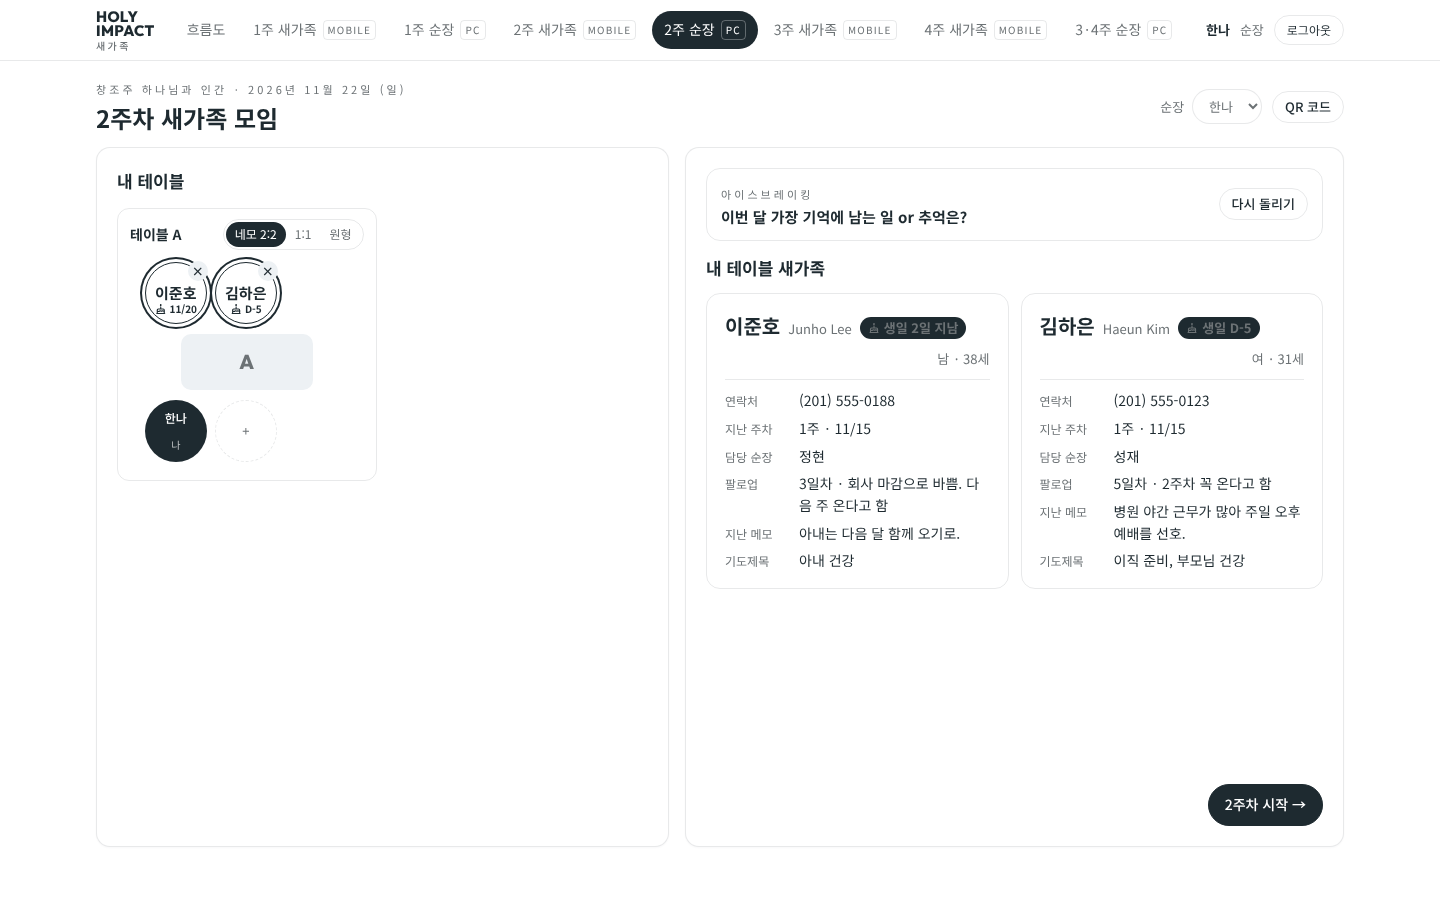
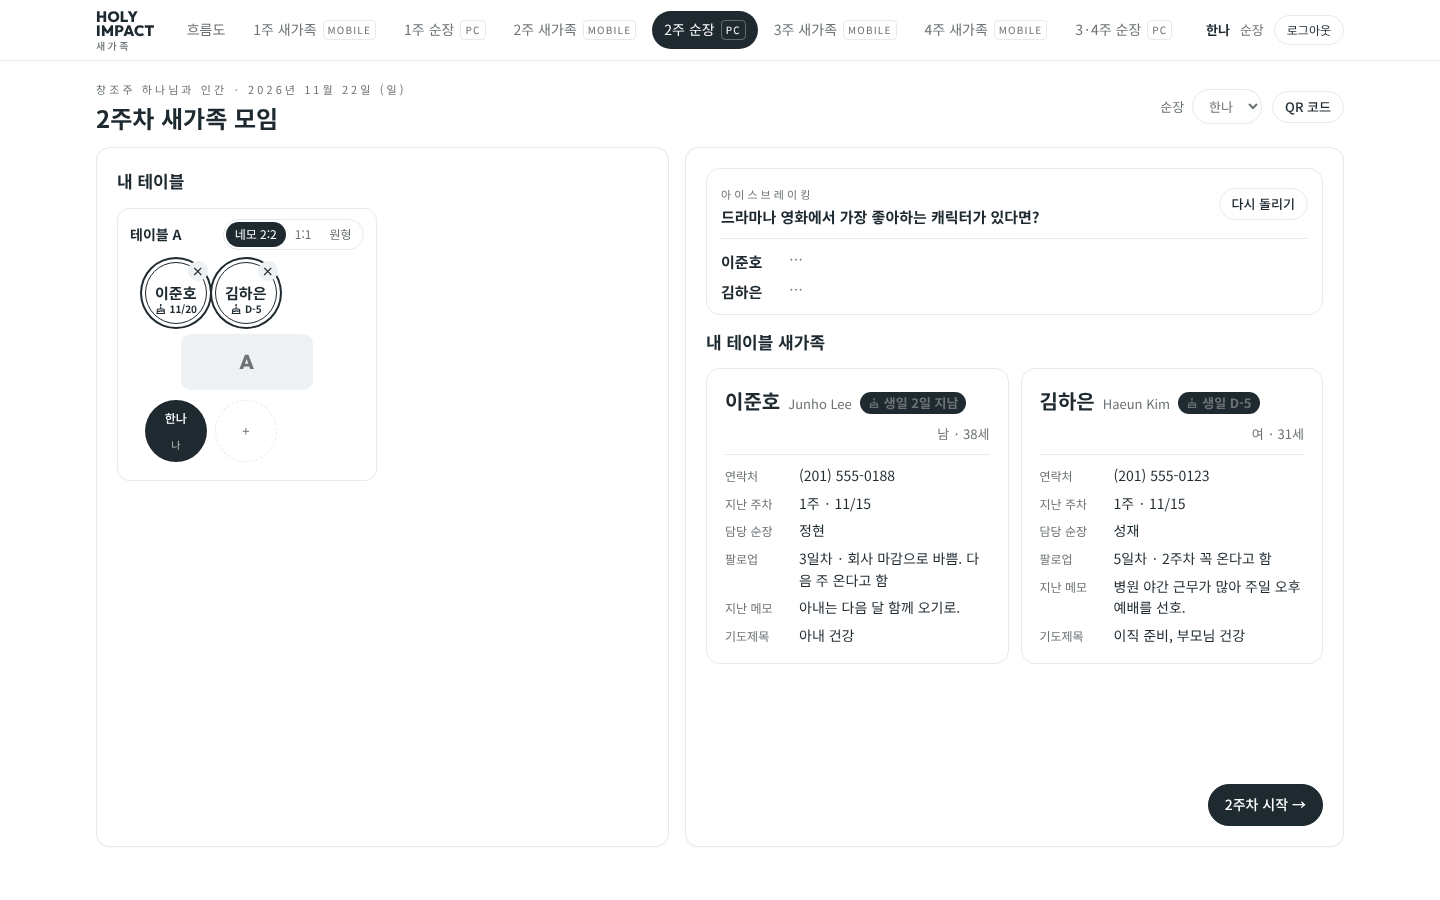
Leader: icebreaker answers listed under the question (name + answer), not in person cards
Claude-Session: https://claude.ai/code/session_01HiA1GonWmcVJgnFShP9VMN

diff --git a/demo/index.html b/demo/index.html
@@ -337,7 +337,7 @@ input[data-act="funote"]:focus,input[data-act="bdayNote"]:focus{outline:none;bor
 #vtip{position:fixed;z-index:80;max-width:380px;background:var(--ink);color:var(--paper);font-size:14px;line-height:1.65;padding:12px 14px;border-radius:12px;box-shadow:0 10px 30px rgba(0,0,0,.18);pointer-events:none}
 #vtip small{display:block;font-size:11px;letter-spacing:.12em;opacity:.65;margin-bottom:4px}
 .ice{margin-top:22px;text-align:left;border-top:1px solid var(--line);padding-top:16px}.ice .iq{font-size:17px;font-weight:600;line-height:1.5;margin:4px 0 10px}.ice textarea{width:100%;border:0;border-bottom:2px solid var(--line);border-radius:0;padding:6px 0;font:inherit;font-size:17px;resize:none;margin-bottom:12px;background:transparent;min-height:56px}.ice textarea:focus{outline:none;border-color:var(--ink)}.ice .btn{width:100%;justify-content:center}.ice .ia{font-size:16px;margin:0 0 4px;white-space:pre-wrap}
-.icebox{display:flex;align-items:center;gap:12px;justify-content:space-between;border:1px solid var(--line);border-radius:14px;padding:12px 14px;margin-bottom:14px}.icebox b{display:block;font-size:15px;line-height:1.45;margin-top:2px}.icebox .btn{flex:none}
+.icebox{display:block;border:1px solid var(--line);border-radius:14px;padding:12px 14px;margin-bottom:14px}.icebox b{display:block;font-size:15px;line-height:1.45;margin-top:2px}.icebox .btn{flex:none}
 .card .blocks.vstack{display:flex;flex-direction:column;gap:14px}
 .card .blocks.vstack h4{color:var(--ink);font-weight:600;font-size:18px;line-height:1.5;justify-content:space-between;align-items:flex-start;margin:0 0 6px}
 .card .blocks.vstack h4 .sub{margin-top:2px}
@@ -385,6 +385,8 @@ input[data-act="funote"]:focus,input[data-act="bdayNote"]:focus{outline:none;bor
 /* 진행표는 맨 아래 */
 .step .live .dots{position:absolute;left:28px;right:28px;bottom:calc(env(safe-area-inset-bottom,0px) + 40px);justify-content:center}
 .phmini{position:relative}.phmini .live .dots{position:absolute;left:12px;right:12px;bottom:12px;justify-content:center}
+.icetop{display:flex;align-items:center;gap:12px;justify-content:space-between}
+.iceans{list-style:none;margin:10px 0 0;padding:10px 0 0;border-top:1px solid var(--line);display:flex;flex-direction:column;gap:6px}.iceans li{display:flex;gap:12px;font-size:14px}.iceans b{flex:none;min-width:56px}
 .praylist{border-left:1px solid var(--line);padding-left:28px;max-height:100%;overflow:auto}
 .praylist h3{margin:0 0 10px}
 .prow{padding:10px 0;border-bottom:1px solid var(--line)}
@@ -1319,7 +1321,7 @@ function leaderHTML(w,multi){
       <div class="tables">${mineT.map(t=>tableHTML(w,t,mineT.length>1)).join('')}</div>
      </div>
      <div class="panel col">
-      <div class="icebox"><div><span class="eyebrow">아이스브레이킹</span><b>${esc(iceQ(w,viewer(w)))}</b></div><button class="btn ghost sm" data-act="iceRoll" data-w="${w}">다시 돌리기</button></div>
+      <div class="icebox"><div class="icetop"><div><span class="eyebrow">아이스브레이킹</span><b>${esc(iceQ(w,viewer(w)))}</b></div><button class="btn ghost sm" data-act="iceRoll" data-w="${w}">다시 돌리기</button></div>${mine.length?`<ul class="iceans">${mine.map(p=>{const ia=p.weeks[w]&&p.weeks[w].ice;const ok=ia&&ia.a&&ia.q===iceQ(w,viewer(w));return `<li><b>${esc(nm(p))}</b>${ok?`<span>${esc(ia.a)}</span>`:'<span class="muted">…</span>'}</li>`}).join('')}</ul>`:''}</div>
       <h3>내 테이블 새가족</h3>
       <div style="flex:1;min-height:0">${mine.length?`<div class="pcards">${mine.map(p=>personCard(w,p)).join('')}</div>`:'<div class="empty">왼쪽에서 내가 맡을 분을 골라 내 테이블에 앉혀 주세요.<br>다른 순장 테이블에 앉은 분은 보이지 않아요.</div>'}</div>
       <div class="stagefoot"><button class="btn" data-act="stage" data-s="talk" ${mine.length?'':'disabled'}>${w}주차 시작 →</button></div>
@@ -1442,7 +1444,6 @@ function personCard(w,p){
   if(w===1)rows=kv('연락처',fmtPhone(p.phone))+kv('이메일',esc(p.email))+kv('사는 곳',esc(p.town))+kv('하는 일',esc(p.job))+kv('결혼',esc(p.marital))+kv('교회',p.church?esc(p.church.name)+(p.onnuri?' <span class="pill sky">전입</span>':''):'')+kv('세례',p.baptized?baptText(p):'')+kv('소개',p.referrer?refText(p):'');
   else{const pw=p.weeks[w-1];const fu=[...p.followups].filter(f=>f.done).pop();const g=pw?daysBetween(pw.done,today):0;
     rows=kv('연락처',fmtPhone(p.phone))+kv('지난 주차',pw?`${w-1}주 · ${md(pw.done)}${g>=14?` <span class="pill warn">${Math.floor(g/7)}주 만</span>`:''}`:'')+kv('담당 순장',LN(p.owner))+kv('팔로업',fu?`${fu.label} · ${esc(fu.note||fu.task)}`:'')+kv('지난 메모',esc(pw&&pw.note))+kv('기도제목',esc(pw&&pw.prayer));}
-  const ia=p.weeks[w]&&p.weeks[w].ice;if(ia&&ia.a)rows+=kv('아이스브레이킹',`<span class="muted" style="font-size:12px">${esc(ia.q)}</span><br>${esc(ia.a)}`);
   return `<article class="pcard" data-open="${p.id}"><header><b>${esc(nm(p))}</b><span>${esc(p.en)}</span>${bdayTag(p)}<em>${p.gender||''}${p.birth?' · '+age(p.birth)+'세':''}</em></header><dl>${rows}</dl></article>`;
 }
 function rowsHTML(w,att){

diff --git a/site/app/index.html b/site/app/index.html
@@ -342,7 +342,7 @@ input[data-act="funote"]:focus,input[data-act="bdayNote"]:focus{outline:none;bor
 #vtip{position:fixed;z-index:80;max-width:380px;background:var(--ink);color:var(--paper);font-size:14px;line-height:1.65;padding:12px 14px;border-radius:12px;box-shadow:0 10px 30px rgba(0,0,0,.18);pointer-events:none}
 #vtip small{display:block;font-size:11px;letter-spacing:.12em;opacity:.65;margin-bottom:4px}
 .ice{margin-top:22px;text-align:left;border-top:1px solid var(--line);padding-top:16px}.ice .iq{font-size:17px;font-weight:600;line-height:1.5;margin:4px 0 10px}.ice textarea{width:100%;border:0;border-bottom:2px solid var(--line);border-radius:0;padding:6px 0;font:inherit;font-size:17px;resize:none;margin-bottom:12px;background:transparent;min-height:56px}.ice textarea:focus{outline:none;border-color:var(--ink)}.ice .btn{width:100%;justify-content:center}.ice .ia{font-size:16px;margin:0 0 4px;white-space:pre-wrap}
-.icebox{display:flex;align-items:center;gap:12px;justify-content:space-between;border:1px solid var(--line);border-radius:14px;padding:12px 14px;margin-bottom:14px}.icebox b{display:block;font-size:15px;line-height:1.45;margin-top:2px}.icebox .btn{flex:none}
+.icebox{display:block;border:1px solid var(--line);border-radius:14px;padding:12px 14px;margin-bottom:14px}.icebox b{display:block;font-size:15px;line-height:1.45;margin-top:2px}.icebox .btn{flex:none}
 .card .blocks.vstack{display:flex;flex-direction:column;gap:14px}
 .card .blocks.vstack h4{color:var(--ink);font-weight:600;font-size:18px;line-height:1.5;justify-content:space-between;align-items:flex-start;margin:0 0 6px}
 .card .blocks.vstack h4 .sub{margin-top:2px}
@@ -390,6 +390,8 @@ input[data-act="funote"]:focus,input[data-act="bdayNote"]:focus{outline:none;bor
 /* 진행표는 맨 아래 */
 .step .live .dots{position:absolute;left:28px;right:28px;bottom:calc(env(safe-area-inset-bottom,0px) + 40px);justify-content:center}
 .phmini{position:relative}.phmini .live .dots{position:absolute;left:12px;right:12px;bottom:12px;justify-content:center}
+.icetop{display:flex;align-items:center;gap:12px;justify-content:space-between}
+.iceans{list-style:none;margin:10px 0 0;padding:10px 0 0;border-top:1px solid var(--line);display:flex;flex-direction:column;gap:6px}.iceans li{display:flex;gap:12px;font-size:14px}.iceans b{flex:none;min-width:56px}
 .praylist{border-left:1px solid var(--line);padding-left:28px;max-height:100%;overflow:auto}
 .praylist h3{margin:0 0 10px}
 .prow{padding:10px 0;border-bottom:1px solid var(--line)}
@@ -1327,7 +1329,7 @@ function leaderHTML(w,multi){
       <div class="tables">${mineT.map(t=>tableHTML(w,t,mineT.length>1)).join('')}</div>
      </div>
      <div class="panel col">
-      <div class="icebox"><div><span class="eyebrow">아이스브레이킹</span><b>${esc(iceQ(w,viewer(w)))}</b></div><button class="btn ghost sm" data-act="iceRoll" data-w="${w}">다시 돌리기</button></div>
+      <div class="icebox"><div class="icetop"><div><span class="eyebrow">아이스브레이킹</span><b>${esc(iceQ(w,viewer(w)))}</b></div><button class="btn ghost sm" data-act="iceRoll" data-w="${w}">다시 돌리기</button></div>${mine.length?`<ul class="iceans">${mine.map(p=>{const ia=p.weeks[w]&&p.weeks[w].ice;const ok=ia&&ia.a&&ia.q===iceQ(w,viewer(w));return `<li><b>${esc(nm(p))}</b>${ok?`<span>${esc(ia.a)}</span>`:'<span class="muted">…</span>'}</li>`}).join('')}</ul>`:''}</div>
       <h3>내 테이블 새가족</h3>
       <div style="flex:1;min-height:0">${mine.length?`<div class="pcards">${mine.map(p=>personCard(w,p)).join('')}</div>`:'<div class="empty">왼쪽에서 내가 맡을 분을 골라 내 테이블에 앉혀 주세요.<br>다른 순장 테이블에 앉은 분은 보이지 않아요.</div>'}</div>
       <div class="stagefoot"><button class="btn" data-act="stage" data-s="talk" ${mine.length?'':'disabled'}>${w}주차 시작 →</button></div>
@@ -1450,7 +1452,6 @@ function personCard(w,p){
   if(w===1)rows=kv('연락처',fmtPhone(p.phone))+kv('이메일',esc(p.email))+kv('사는 곳',esc(p.town))+kv('하는 일',esc(p.job))+kv('결혼',esc(p.marital))+kv('교회',p.church?esc(p.church.name)+(p.onnuri?' <span class="pill sky">전입</span>':''):'')+kv('세례',p.baptized?baptText(p):'')+kv('소개',p.referrer?refText(p):'');
   else{const pw=p.weeks[w-1];const fu=[...p.followups].filter(f=>f.done).pop();const g=pw?daysBetween(pw.done,today):0;
     rows=kv('연락처',fmtPhone(p.phone))+kv('지난 주차',pw?`${w-1}주 · ${md(pw.done)}${g>=14?` <span class="pill warn">${Math.floor(g/7)}주 만</span>`:''}`:'')+kv('담당 순장',LN(p.owner))+kv('팔로업',fu?`${fu.label} · ${esc(fu.note||fu.task)}`:'')+kv('지난 메모',esc(pw&&pw.note))+kv('기도제목',esc(pw&&pw.prayer));}
-  const ia=p.weeks[w]&&p.weeks[w].ice;if(ia&&ia.a)rows+=kv('아이스브레이킹',`<span class="muted" style="font-size:12px">${esc(ia.q)}</span><br>${esc(ia.a)}`);
   return `<article class="pcard" data-open="${p.id}"><header><b>${esc(nm(p))}</b><span>${esc(p.en)}</span>${bdayTag(p)}<em>${p.gender||''}${p.birth?' · '+age(p.birth)+'세':''}</em></header><dl>${rows}</dl></article>`;
 }
 function rowsHTML(w,att){
